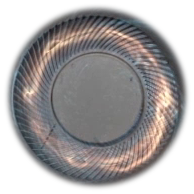
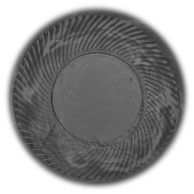
Turn plain fans, not the vendor's fire
The fan discs were cut straight out of the video, and the video lights its fans
with a stylised orange swirl - so what was rotating was a ring of flame, not a
fan. The illumination is now divided out of them: averaging each disc over many
small rotations isolates the lighting (the blades repeat every ~7.7 degrees and
average away, the swirl spans half the disc and survives), and dividing by that
leaves plain metal blades on an even ground, with the hub left as it was.

What lights them now is the app's own and says something: two or three faint,
nearly white arcs that turn with the blades and disappear entirely when a fan
stops. Plain blades are the honest picture of a laptop fan and also a
low-contrast one, and this gives the eye something to follow without inventing
motion. The duty ring is thinner, and the pulse in the heat pipes is down to
roughly a third of its strength - heat moving through metal, not sparks flying
along it.

The render checks can now spin a rotor up before photographing it, the same way
they can place the pulse, so neither effect is verified in the one frame where
it does not exist yet.

diff --git a/src/AorusControl.App/Controls/FanRotor.cs b/src/AorusControl.App/Controls/FanRotor.cs
@@ -144,7 +144,12 @@ public sealed class FanRotor : FrameworkElement
         double elapsed = _clock.Elapsed.TotalSeconds;
         _clock.Restart();
         if (elapsed <= 0 || elapsed > 0.25) elapsed = 1.0 / 60;
+        Step(elapsed);
+        if (_speed == 0 && TargetDegreesPerSecond == 0) Hook(false);
+    }
 
+    private void Step(double elapsed)
+    {
         // Exponential approach: fast enough to react to a reading, slow enough that the
         // change is visible as spooling up rather than as a jump.
         double target = TargetDegreesPerSecond;
@@ -153,7 +158,14 @@ public sealed class FanRotor : FrameworkElement
 
         _angle = (_angle + _speed * elapsed) % 360;
         InvalidateVisual();
-        if (_speed == 0 && target == 0) Hook(false);
+    }
+
+    /// <summary>Runs the rotor forward without a clock. Only the offscreen render checks use
+    /// it: nothing ticks there, so without this they would photograph a fan that has not yet
+    /// started turning - which is exactly the state the sheen is supposed to stay out of.</summary>
+    internal void SpinForCheck(double seconds)
+    {
+        for (int step = 0; step < 30; step++) Step(seconds / 30);
     }
 
     protected override Size MeasureOverride(Size availableSize)
@@ -173,6 +185,7 @@ public sealed class FanRotor : FrameworkElement
         context.PushOpacity(IsLive ? 1 : 0.5);
         context.PushTransform(new RotateTransform(_angle, centre.X, centre.Y));
         context.DrawImage(Blades, new Rect(centre.X - side / 2, centre.Y - side / 2, side, side));
+        DrawSheen(context, centre, side / 2);
         context.Pop();
         context.Pop();
 
@@ -182,6 +195,48 @@ public sealed class FanRotor : FrameworkElement
         // at and cheaper than drawing motion trails.
         double share = Math.Clamp(_speed / FastestDegreesPerSecond, 0, 1);
         Effect = share < 0.08 ? null : new BlurEffect { Radius = share * 2.2, KernelType = KernelType.Gaussian };
+    }
+
+    /// <summary>
+    /// Light catching the blades: two faint arcs turning with the fan, no stronger than a
+    /// reflection.
+    ///
+    /// They exist because plain blades are the honest picture of a laptop fan and also a
+    /// low-contrast one - at 1500 RPM a grey disc of grey blades barely reads as moving.
+    /// These give the eye something to follow, and they fade out entirely when the fan stops,
+    /// so they can never suggest motion that is not there.
+    /// </summary>
+    private void DrawSheen(DrawingContext context, Point centre, double radius)
+    {
+        double share = Math.Clamp(_speed / FastestDegreesPerSecond, 0, 1);
+        if (share < 0.02) return;
+
+        // Nearly white, with only a breath of the temperature colour in it: metal catching
+        // light is white, and a strongly tinted arc reads as a drawn-on ring instead.
+        Color tint = Mix(Tint(), Colors.White, 0.55);
+        foreach ((double at, double from, double sweep, double weight) in new[]
+        {
+            (0.86, -0.7, 1.8, 1.0), (0.70, 2.1, 1.4, 0.8), (0.55, 4.1, 1.0, 0.55)
+        })
+        {
+            double r = radius * at;
+            Point On(double angle) => new(centre.X + r * Math.Cos(angle), centre.Y + r * Math.Sin(angle));
+
+            var figure = new PathFigure { StartPoint = On(from) };
+            figure.Segments.Add(new ArcSegment(On(from + sweep), new Size(r, r), 0, false, SweepDirection.Clockwise, true));
+            var geometry = new PathGeometry();
+            geometry.Figures.Add(figure);
+            geometry.Freeze();
+
+            var brush = new SolidColorBrush(Color.FromArgb(
+                (byte)Math.Clamp((0.06 + share * 0.20) * weight * 255, 0, 255), tint.R, tint.G, tint.B));
+            brush.Freeze();
+            context.DrawGeometry(null, new Pen(brush, radius * 0.085)
+            {
+                StartLineCap = PenLineCap.Round,
+                EndLineCap = PenLineCap.Round
+            }, geometry);
+        }
     }
 
     /// <summary>The effort arc: from the top, clockwise, one full turn at 100 %. It sits just
@@ -208,12 +263,17 @@ public sealed class FanRotor : FrameworkElement
         geometry.Freeze();
 
         Color tint = Tint();
-        context.DrawGeometry(null, new Pen(new SolidColorBrush(Color.FromArgb(0xCC, tint.R, tint.G, tint.B)), 2.5)
+        context.DrawGeometry(null, new Pen(new SolidColorBrush(Color.FromArgb(0xB0, tint.R, tint.G, tint.B)), 2)
         {
             StartLineCap = PenLineCap.Round,
             EndLineCap = PenLineCap.Round
         }, geometry);
     }
+
+    private static Color Mix(Color from, Color to, double share) => Color.FromRgb(
+        (byte)(from.R + (to.R - from.R) * share),
+        (byte)(from.G + (to.G - from.G) * share),
+        (byte)(from.B + (to.B - from.B) * share));
 
     /// <summary>
     /// The app's own cyan while the machine is cool, warming towards amber from about 65 °C.

diff --git a/tools/Build-ThermalAssets.py b/tools/Build-ThermalAssets.py
@@ -24,6 +24,7 @@ FRAME = 39                          # the brightest frame: both fans fully lit
 CROP = (366, 100, 1584, 522)        # the cooling assembly: chassis edge down to just below the lower pipe loop
 FANS = ((564, 355.5), (1383.5, 366.5))   # hub centres in the full frame
 BLADE, EDGE = 88, 97                # blade radius, and how much of the housing comes along
+HUB = 46                            # the metal cap in the middle, kept as it is
 OUT = os.path.join(os.path.dirname(__file__), "..", "src", "AorusControl.App", "Assets")
 
 
@@ -61,16 +62,54 @@ def body(crop, pipe_mask):
 
 
 def disc(full, centre):
-    """One fan's blades as a circle with a feathered edge, ready to be rotated."""
+    """One fan's blades as a circle with a feathered edge, ready to be rotated.
+
+    The video lights the fans with a stylised swirl of orange and blue, which is fine in a
+    product clip and wrong here: rotating it looks like a ring of fire turning, not like a
+    fan. So the illumination is divided out. Averaging the tile over many small rotations
+    gives the lighting alone - the blades repeat every ~7.7 degrees and average away, while
+    the swirl spans half the disc and survives - and dividing the tile by that average leaves
+    the blades on an even ground. The hub is put back untouched, because it has no blades to
+    recover and the flat-field only adds noise there.
+    """
     x, y = (int(round(value)) for value in centre)
     tile = full.crop((x - EDGE, y - EDGE, x + EDGE, y + EDGE))
+    plain = tile.convert("L")
+    grey = np.asarray(plain).astype(float)
+
+    lighting = np.mean(
+        [np.asarray(plain.rotate(angle, resample=Image.BICUBIC)).astype(float)
+         for angle in np.arange(-26, 27, 2)], axis=0)
+
     side = tile.size[0]
+    yy, xx = np.mgrid[0:side, 0:side]
+    distance = np.hypot(xx - (side - 1) / 2, yy - (side - 1) / 2)
+    blades = (distance > HUB) & (distance < BLADE)
+
+    # The resting level comes from the darker end of the ring, not its median: the median is
+    # dragged up by the very glow being removed, and a fan lit like a studio prop is exactly
+    # what this is meant to stop being.
+    level = np.percentile(grey[blades], 34)
+    # A clamped ratio, because where the swirl was brightest the division still leaves hot
+    # specks - the blades there carry no more information than anywhere else.
+    ratio = np.clip(grey / np.maximum(lighting, 8), 0.78, 1.3)
+    flat = np.clip(level * (1 + (ratio - 1) * 1.15), 0, 255)
+    # Slightly recessed towards the rim, the way a fan sits in its well.
+    flat *= 1 - 0.28 * np.clip((distance - HUB) / (BLADE - HUB), 0, 1) ** 2
+
+    # Only the blades are replaced: the hub has none to recover, and the feathered edge keeps
+    # the original housing so the disc does not sit on a bright halo of its own making.
+    # The hub keeps its own shading but comes down with the blades; at full brightness it
+    # reads as a lamp in the middle of a dark fan.
+    result = np.where((distance > HUB) & (distance < BLADE - 3), flat, grey * 0.82)
+    disc_image = Image.fromarray(np.clip(result, 0, 255).astype(np.uint8)).convert("RGB")
+
     # Drawn at 4x and scaled down: an ellipse mask at final size has visibly stepped edges.
     alpha = Image.new("L", (side * 4, side * 4), 0)
     ImageDraw.Draw(alpha).ellipse(
         (4 * (EDGE - BLADE), 4 * (EDGE - BLADE), 4 * (EDGE + BLADE), 4 * (EDGE + BLADE)), fill=255)
-    tile.putalpha(alpha.resize((side, side), Image.LANCZOS).filter(ImageFilter.GaussianBlur(2.5)))
-    return tile
+    disc_image.putalpha(alpha.resize((side, side), Image.LANCZOS).filter(ImageFilter.GaussianBlur(2.5)))
+    return disc_image
 
 
 def pipe_mask(crop):

diff --git a/src/AorusControl.App/Controls/ThermalLayout.cs b/src/AorusControl.App/Controls/ThermalLayout.cs
@@ -209,10 +209,12 @@ public sealed class ThermalLayout : Panel
         };
         // The pipes rest a little darker in the image than the video had them, so this puts
         // some of that back - more of it the hotter the machine is.
-        brush.GradientStops.Add(Stop(0.16 + warmth * 0.30, 0));
-        brush.GradientStops.Add(Stop(0.08 + warmth * 0.18, 1));
+        brush.GradientStops.Add(Stop(0.14 + warmth * 0.24, 0));
+        brush.GradientStops.Add(Stop(0.07 + warmth * 0.14, 1));
 
-        double peak = 0.34 + FlowSpeed * 0.55;
+        // Deliberately restrained: this is heat moving through metal, not sparks flying
+        // along it. It should be noticed on the second look, not the first.
+        double peak = 0.14 + FlowSpeed * 0.26;
         foreach (double wave in Waves)
         {
             // Each wave crosses the picture and is gone before it wraps, so they never pop
@@ -236,6 +238,14 @@ public sealed class ThermalLayout : Panel
 
     private static GradientStop Stop(double strength, double offset) =>
         new(Color.FromArgb((byte)Math.Clamp(strength * 255, 0, 255), GlowColor.R, GlowColor.G, GlowColor.B), offset);
+
+    /// <summary>Spins both fans up, for the same reason and the same audience as
+    /// <see cref="PulsePhase"/>.</summary>
+    internal void SpinForCheck(double seconds)
+    {
+        _left.SpinForCheck(seconds);
+        _right.SpinForCheck(seconds);
+    }
 
     /// <summary>Where the waves currently are. Only the offscreen render checks set this, so
     /// they can photograph a pulse instead of the one frame where nothing is lit.</summary>

diff --git a/tests/AorusControl.UiChecks/Program.cs b/tests/AorusControl.UiChecks/Program.cs
@@ -149,6 +149,7 @@ static void RenderCoolingStates(string output)
         foreach (ThermalLayout layout in Descendants<ThermalLayout>(content))
         {
             layout.PulsePhase = 0.42;
+            layout.SpinForCheck(2.0);
             lit++;
         }
         if (lit != 1) throw new Exception($"expected one thermal layout on the cooling page, found {lit}");

diff --git a/research/UI-DESIGN-SYSTEM.md b/research/UI-DESIGN-SYSTEM.md
@@ -402,6 +402,14 @@ the machine. The photograph carries the detail - the brushed pipes, the board, t
 that no reasonable amount of drawing code was going to reproduce, and it is a third of the
 code.
 
+The vendor's own light effects are deliberately removed rather than reused. The video lights
+the fans with a stylised orange swirl, and rotating that reads as a ring of fire turning; the
+generator divides the illumination out (see `Assets/README.md`) so what turns is plain blades.
+The light on top is then the app's own and means something: two or three faint, nearly white
+arcs that turn with the blades and fade out completely when a fan stops - plain blades are the
+honest picture of a laptop fan and also a low-contrast one, and these give the eye something
+to follow without ever suggesting motion that is not there.
+
 The live values drive it: the rotors turn at the measured speed with an arc around each for
 that fan's duty, tinted by its temperature; and three waves of warm light travel outwards from the chips at the
 speed the fans are working, so switching a profile is visible and not merely readable. Each
@@ -409,8 +417,9 @@ wave has a bright leading edge and a long tail, the way heat actually moves thro
 a symmetrical blob slides, but does not flow - and the pipes rest slightly darker in the
 image than the video had them, which is what gives the light something to brighten. The
 picture is drawn in the asset's own pixel space scaled to the available width, so the
-coordinates in the control can be read straight off the image; `ThermalLayout.PulsePhase` is
-internal so the render checks can photograph a wave in flight instead of a dark frame.
+coordinates in the control can be read straight off the image; `ThermalLayout.PulsePhase` and `SpinForCheck` are
+internal so the render checks can photograph a wave in flight and a fan already up to speed,
+rather than the one frame in which neither has started.
 
 Three rules keep it honest and smooth:
 

diff --git a/research/runs/worker-ipc-20260905-153039-3bab7a8808f54799acf8df282f9b0965.md b/research/runs/worker-ipc-20260905-153039-3bab7a8808f54799acf8df282f9b0965.md
@@ -1,0 +1,25 @@
+# Worker process IPC checks
+
+Started: 2026-09-05T15:30:37.3566976-03:00
+
+Isolated test pipe. Status only; no telemetry or hardware writes.
+
+PASS: oversized payload; connection rejected, next status succeeds.
+PASS: unknown operation; connection rejected, next status succeeds.
+PASS: missing request identity; connection rejected, next status succeeds.
+PASS: unknown JSON field; connection rejected, next status succeeds.
+PASS: idle connected client timeout; connection rejected, next status succeeds.
+PASS: disconnected partial header; next status succeeds.
+Owned test worker stopped. No production worker targeted.
+
+Server output:
+```
+Hardware-Worker bereit (Fixed-L�fter �ber Lease, sonst nur lesend). Strg+C beendet ihn.
+Anfrage verworfen: Ung�ltige Nachrichtengr��e. Ung�ltige Nachrichtengr��e.
+Anfrage verworfen: Unbekannte Protokollversion, Anfrage oder Operation. Unbekannte Protokollversion, Anfrage oder Operation.
+Anfrage verworfen: Unbekannte Protokollversion, Anfrage oder Operation. Unbekannte Protokollversion, Anfrage oder Operation.
+Anfrage verworfen: The JSON property 'Command' could not be mapped to any .NET member contained in type 'AorusControl.Core.Features.Worker.WorkerRequest'. The JSON property 'Command' could not be mapped to any .NET member contained in type 'AorusControl.Core.Features.Worker.WorkerRequest'.
+Anfrage verworfen: The operation was canceled. The operation was canceled.
+Anfrage verworfen: Unable to read beyond the end of the stream. Unable to read beyond the end of the stream.
+
+```

diff --git a/src/AorusControl.App/Assets/README.md b/src/AorusControl.App/Assets/README.md
@@ -24,7 +24,7 @@ the clean answer.
 | File | What it is |
 | --- | --- |
 | `thermal-body.jpg` | The chassis, cropped to the cooling assembly (1218 × 422: chassis edge down to just below the lower pipe loop, since the battery half of the machine says nothing about cooling), dimmed to sit in a dark card, with the video's red ambient glow desaturated, the outer edge faded, and the pipes themselves rested a little darker so the app's travelling light has somewhere to go |
-| `thermal-fan-left/right.png` | Each fan's blades cut out as a circle with a soft edge, so `FanRotor` can rotate them over the housing they came from |
+| `thermal-fan-left/right.png` | Each fan's blades cut out as a circle with a soft edge, so `FanRotor` can rotate them over the housing they came from - with the video's stylised orange-and-blue swirl divided out, because rotating that looks like a ring of fire turning rather than like a fan. The lighting is found by averaging the tile over many small rotations (the blades repeat every ~7.7° and average away, the swirl spans half the disc and survives) and then divided out; the hub is kept as it is |
 | `thermal-pipes.png` | An alpha mask of the heat pipes and fin stacks, picked out by their brass colour - the warm pulse is drawn through this, so it can only ever light up actual metal |
 
 The coordinates the app draws with (`ThermalLayout`) are this image's own pixel space, so
